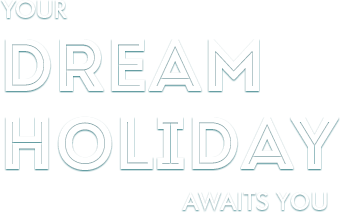
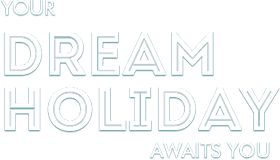
Refining front cover UI

diff --git a/views/css/main.scss b/views/css/main.scss
@@ -112,6 +112,12 @@ ul {
 	}
 }
 
+.navbar {
+	@media (max-width: $screen-xs-max) {
+		margin-bottom: 0px;
+	}
+}
+
 
 #logo-main {
 	background: white url(../images/palmarinha-logo.png) no-repeat center center;
@@ -119,9 +125,10 @@ ul {
 	height: 175px;
 	text-indent: -9999px;
 	@media(max-width: $screen-xs-max) {
-
+			background-position: center 10px;
 			margin-left:0px !important;
 			width:100%;
+			height: 140px;
 	}
 	.home & {
 		margin-left: 70px;
@@ -209,20 +216,28 @@ ul {
 		text-indent: -9999px;
 		margin: 0 auto 40px;
 		@media(max-width: $screen-xs-max) {
-
-			margin-top: -90px;
+			
+			margin-bottom: 20px;
 			background: url(../images/dream-holiday-mobile.png) no-repeat center;
-			background-size:contain; 
-			width: 100%;
+			background-size: 280px 160px;
+			height: 160px; 
+			width: 280px;
 		}
 	}
 }
+/*
+.cover {
+	min-height: 600px;
+}*/
 
 .cover-controls {
 	position: absolute;
 	top: 40%;
 	width: 100%;
 	text-align: center;
+	@media (max-width: $screen-xs-max) {
+		top: 170px;
+	}
 	.btn {
 		margin: 0 10px;
 		@media(max-width: $screen-xs-max) {

diff --git a/public/js/main.js b/public/js/main.js
@@ -18,10 +18,12 @@ $(document).ready(function() {
 	var emailInfo = $('#emailInfo');
 	var eaddgrp = $('#eaddgrp');
 	
-
-	$('#home-controls').css({
-		top: ((winH - 260) / 2) + 160
-	});
+	if (winW > 321) {
+		$('#home-controls').css({
+			top: ((winH - 260) / 2) + 160
+		});
+	}
+	
 	form.submit(function() {
 		if (validateEmail()) {
 			return true;

diff --git a/app.rb b/app.rb
@@ -17,7 +17,7 @@ end
 
 configure :development do
 	require 'dm-sqlite-adapter'
-	DataMapper::setup(:default, "sqlite3://db/palmarinha.db")
+	DataMapper::setup(:default, "sqlite3://#{Dir.pwd}/palmarinha.db")
 end
 
 configure :production do
